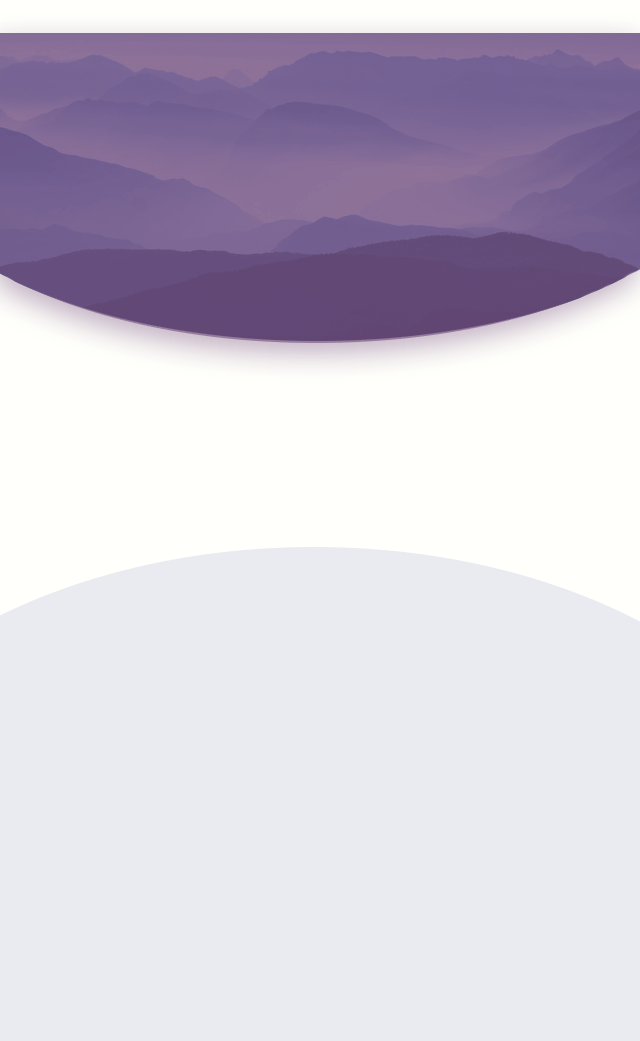
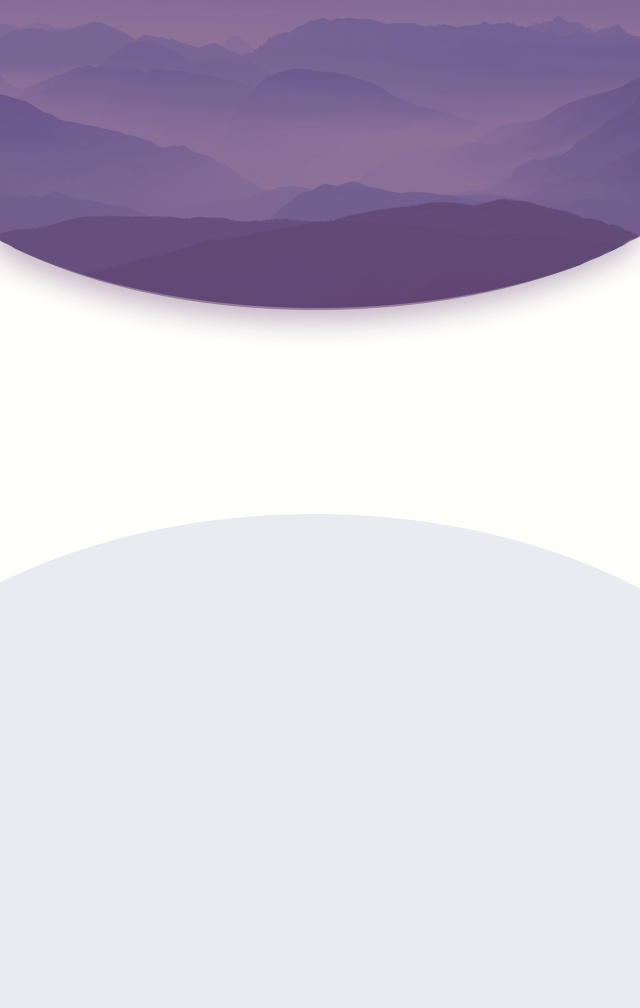
fix responsive sub menu and profile

diff --git a/css/fatma.css b/css/fatma.css
@@ -89,7 +89,7 @@
     padding:3px;
      margin-top: 4px;
 }
-#myPanel{background-image:url(../images/sub-menue.png); position: absolute;}
+#myPanel{background-image:url(../images/sub-menue.png); background-size: cover;}
 #myPanel input
 {
     border-radius: 50%;
@@ -539,8 +539,15 @@ input
     background-image: url("../images/bgprofile.png");
     background-size: 100% 100%;
     padding-top: 0px!important;
+    position :fixed !important;
+    margin-top: 40px;
 }
-
+#profile-Docter p
+{
+    color: #71507d;
+    font-family: Source Sans Pro;
+    font-size: 20px;
+}
 /*edit responsive of profile page*/
 
 /* ----------- Nexus 5X ----------- */
@@ -571,15 +578,20 @@ and (max-device-width: 732px)
         color: #b9b9b7;
         text-shadow: none !important;
     }
+    #profile-Docter p
+    {
+        font-size: 20px;
+        margin-top: 72px;
+    }
 }
 /* ----------- iPhone 4 and 4S -----------
 @media only screen
-and (min-device-width: 320px)
-and (max-device-width: 480px)
+and (device-width: 320px)
+and (device-height: 480px)
  {
     #profile-Docter .profile-pic
     {
-        margin-top: 85px;
+        margin-top: 62px;
         width: 36%;
     }
     #profile-Docter .prof-info h1
@@ -604,10 +616,10 @@ and (max-device-width: 480px)
 /* ----------- iPhone 5 ----------- */
 @media only screen
 and (min-device-width: 320px)
-and (max-device-width: 568px) {
+and (max-device-height: 568px) {
     #profile-Docter .profile-pic
     {
-        margin-top: 98px;
+        margin-top: 87px;
         width: 44%;
     }
     #profile-Docter .prof-info h1
@@ -628,14 +640,19 @@ and (max-device-width: 568px) {
         color: #b9b9b7;
         text-shadow: none !important;
     }
+    #profile-Docter p
+    {
+        font-size: 16px;
+        margin-top: 53px;
+    }
 }
 /* ----------- iPhone 6 ----------- */
 @media only screen
 and (min-device-width: 375px)
-and (max-device-width: 667px) {
+and (max-device-height: 667px) {
     #profile-Docter .profile-pic
     {
-        margin-top: 35%;
+        margin-top: 107px;
         width: 45%;
     }
     #profile-Docter .prof-info h1
@@ -656,6 +673,11 @@ and (max-device-width: 667px) {
         color: #b9b9b7;
         text-shadow: none !important;
     }
+    #profile-Docter p
+    {
+        font-size: 18px;
+        margin-top: 56px;
+    }
 }
 /* ----------- iPhone 6 plus  ----------- */
 @media only screen
@@ -663,7 +685,7 @@ and (min-device-width: 414px)
 and (max-device-width: 736px) {
     #profile-Docter .profile-pic
     {
-        margin-top: 35%;
+        margin-top: 118px;
         width: 45%;
     }
     #profile-Docter .prof-info h1
@@ -684,6 +706,11 @@ and (max-device-width: 736px) {
         color: #b9b9b7;
         text-shadow: none !important;
     }
+    #profile-Docter p
+    {
+        font-size: 21px;
+        margin-top: 65px;
+    }
 }
 /* ----------- iPad ----------- */
 /* Portrait and Landscape */
@@ -693,7 +720,7 @@ and (min-device-width: 768px)
 and (max-device-width: 1024px) {
     #profile-Docter .profile-pic
     {
-        margin-top: 171px;
+        margin-top: 156px;
         width: 36%;
     }
     #profile-Docter .prof-info h1
@@ -714,6 +741,11 @@ and (max-device-width: 1024px) {
         color: #b9b9b7;
         text-shadow: none !important;
     }
+    #profile-Docter p
+    {
+        font-size: 30px;
+        margin-top: 85px;
+    }
 }
 /* ----------- iPad pro----------- */
 /* Portrait and Landscape */
@@ -723,7 +755,7 @@ and (min-device-width: 1024px)
 and (max-device-width: 1366px) {
     #profile-Docter .profile-pic
     {
-        margin-top: 264px;
+        margin-top: 239px;
         width: 32%;
     }
     #profile-Docter .prof-info h1
@@ -743,6 +775,11 @@ and (max-device-width: 1366px) {
         font-weight: lighter;
         color: #b9b9b7;
         text-shadow: none !important;
+    }
+    #profile-Docter p
+    {
+        font-size: 39px;
+        margin-top: 127px;
     }
 }
 /*
@@ -911,26 +948,29 @@ select:hover
     position: relative;
     top: -41px;
 }
+#chat-screen .clear {width: 50px; height: 50px; clear: both;}
+#chat-screen {padding-top: 0px !important;}
 #chat-screen .ui-content {
     border-width: 0;
     overflow: visible;
     overflow-x: hidden;
     padding: 1em;
     height: 70%;
+    padding-top: 0px !important;
 }
-#chat-screen  #header
+#chat-screen  #chattitle
 {
     background-color: #573d5c;
     height: 100px;
     border: #ddd;
 
 }
-#chat-screen  #header i{
+#chat-screen  #chattitle i{
     font-size: 30px;
     color: #fff;
     padding: 30px;
 }
-#chat-screen #header  img
+#chat-screen #chattitle  img
 {
     width: 60px;
     height: 60px;
@@ -948,7 +988,7 @@ select:hover
     font-size: 18px;
     font-family: Source Sans Pro ;
 }
-#chat-screen #header h4{
+#chat-screen #chattitle h4{
      color: #b3a1b7;
     margin-right: -5px;
     font-weight: 100;

diff --git a/fatma.html b/fatma.html
@@ -59,7 +59,7 @@
 		</div>
 </div>
 <!--sub menu-->
-        <div data-role="panel" id="myPanel" data-display="overlay" class="ui-panel-inner">
+        <div data-role="panel" id="myPanel" data-display="overlay" class="ui-panel-inner"  style="position: fixed;">
 				<input type="text" placeholder="Search" >
 				<center class="info">
 						<a href="#profile-Docter" data-transition="flip" ><img src="images/doc_profile_03.png" class="hvr-grow"></a>
@@ -451,10 +451,20 @@
 <!--header-->
 <!--doc profile-->
 		<div role="main" class="ui-content">
-			<center class="prof-info">
-				<a href="#"><img class="profile-pic img-responsive" src="images/doc_profile_03.png"></a>
-				<h1>Magdi Yacoub</h1>
-				<h4>Doctor</h4>
+			<center>
+				<div class="prof-info">
+					<a href="#"><img class="profile-pic img-responsive" src="images/doc_profile_03.png"></a>
+					<h1>Magdi Yacoub</h1>
+					<h4>Doctor</h4>
+				</div>
+				<div>
+					<p>Professor of Cardiothoracic Surgery at the
+						National Heart and Lung Institute, Imperial
+						College London and Founder and Director
+						of Research at the Harefield Heart Science
+						Centre
+					</p>
+				</div>
 			</center>
 			<!--
 				<img class="backphoto"src="images/headrerprof_01.png">
@@ -522,7 +532,8 @@
 <!-- /page6 -->
 <!-- page7 -->
 <div data-role="page" id="chat-screen">
-		<div data-role="header" id="header">
+    <div class="clear"></div>
+		<div id="chattitle">
 				<i class="fa fa-angle-left fa-2x" aria-hidden="true"></i>
 				<img src="images/doc_profile_03.png">
 				<center>
